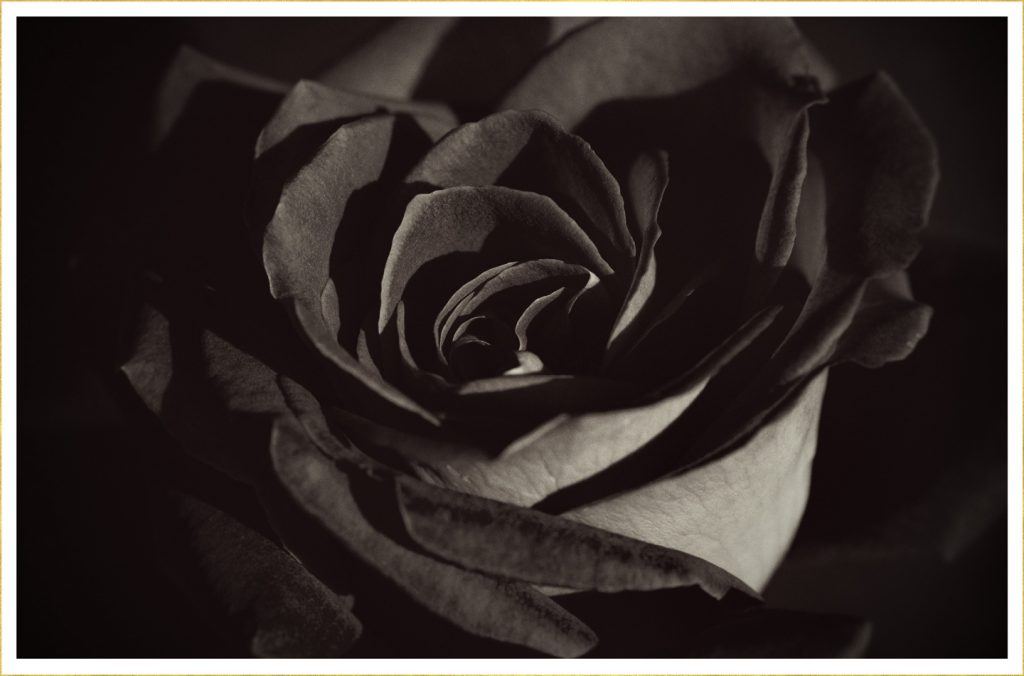
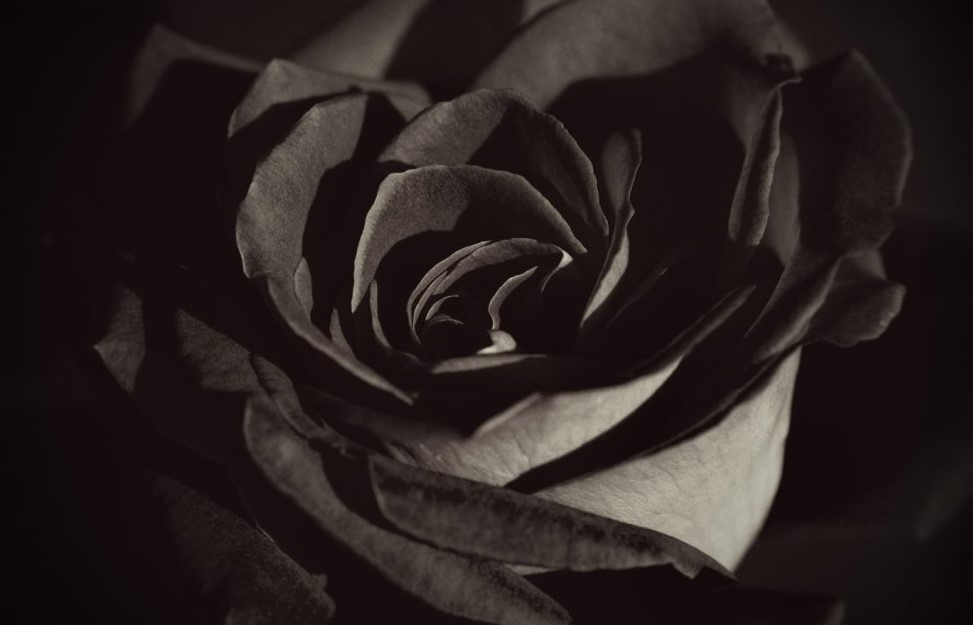
Fixed left background image

diff --git a/styles/main-styles.css b/styles/main-styles.css
@@ -53,6 +53,8 @@ main .grid-left{
     position: sticky;
     background-image: url("../assets/background/black-flower_background.jpg");
     background-position: center;
+    background-repeat: no-repeat;
+    background-size: cover;
 }
 
 .grid-left h2{
